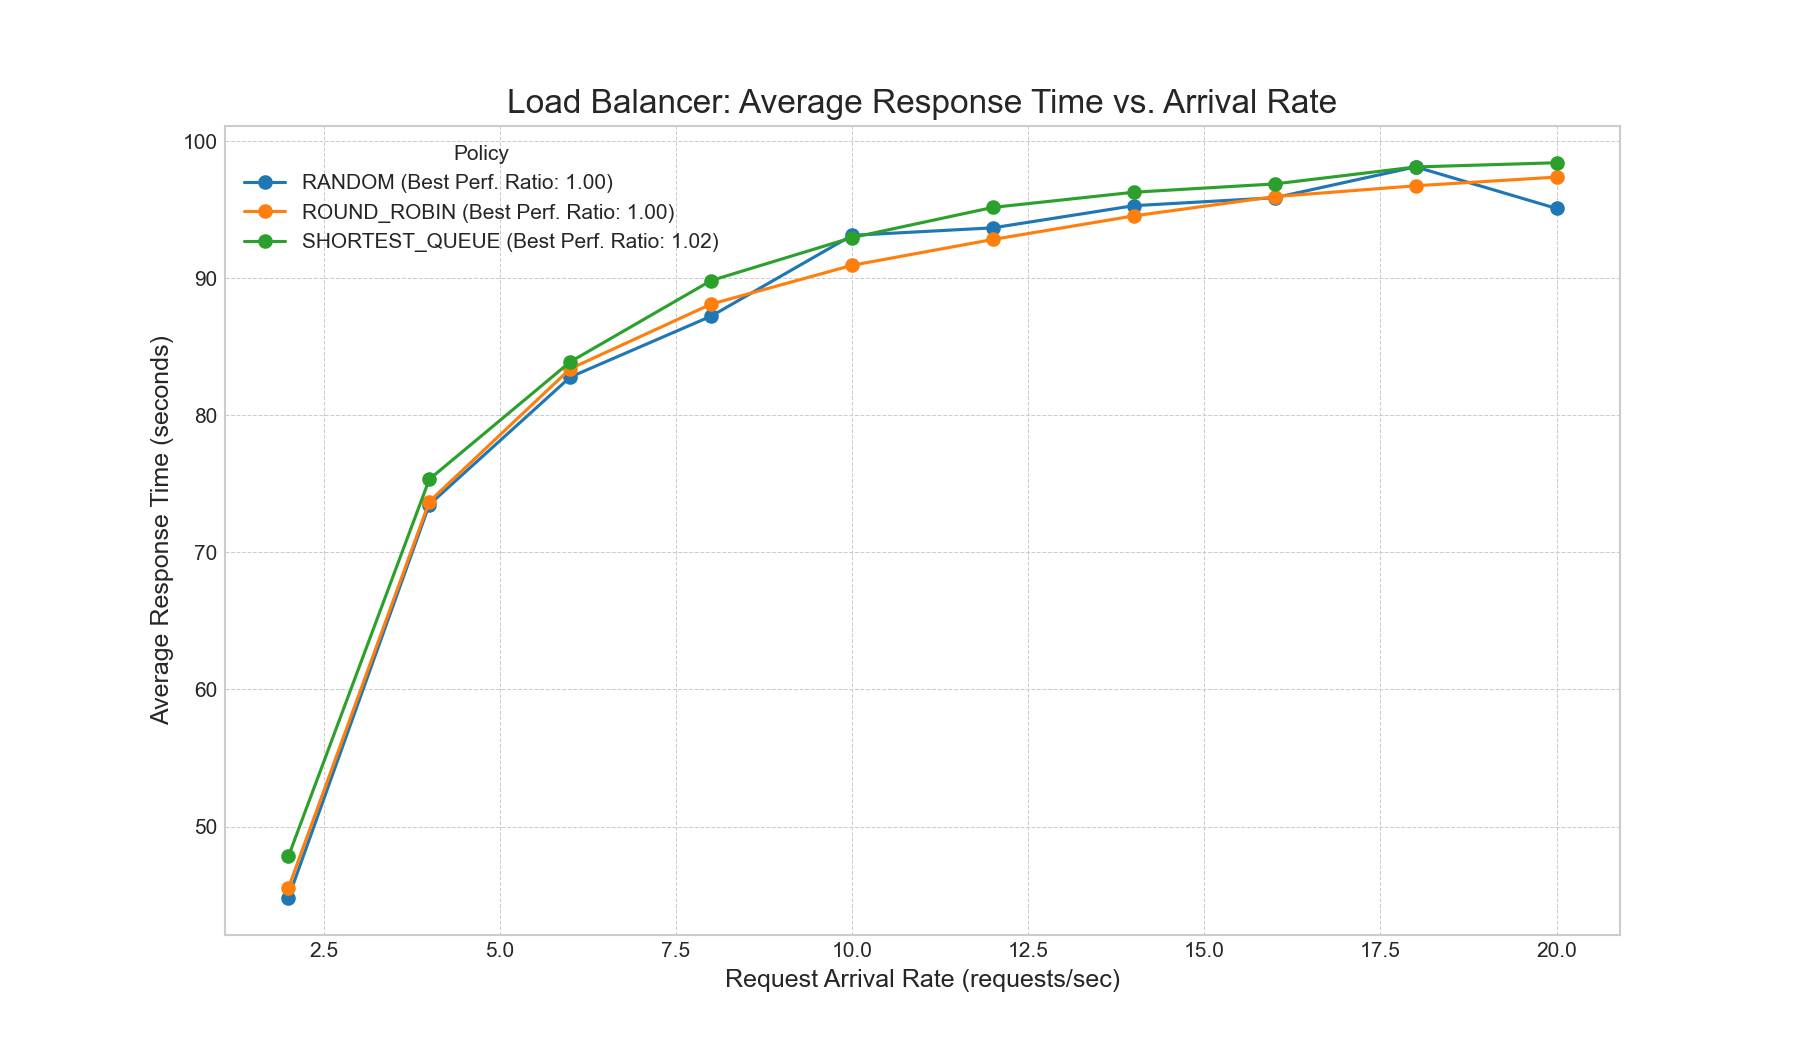
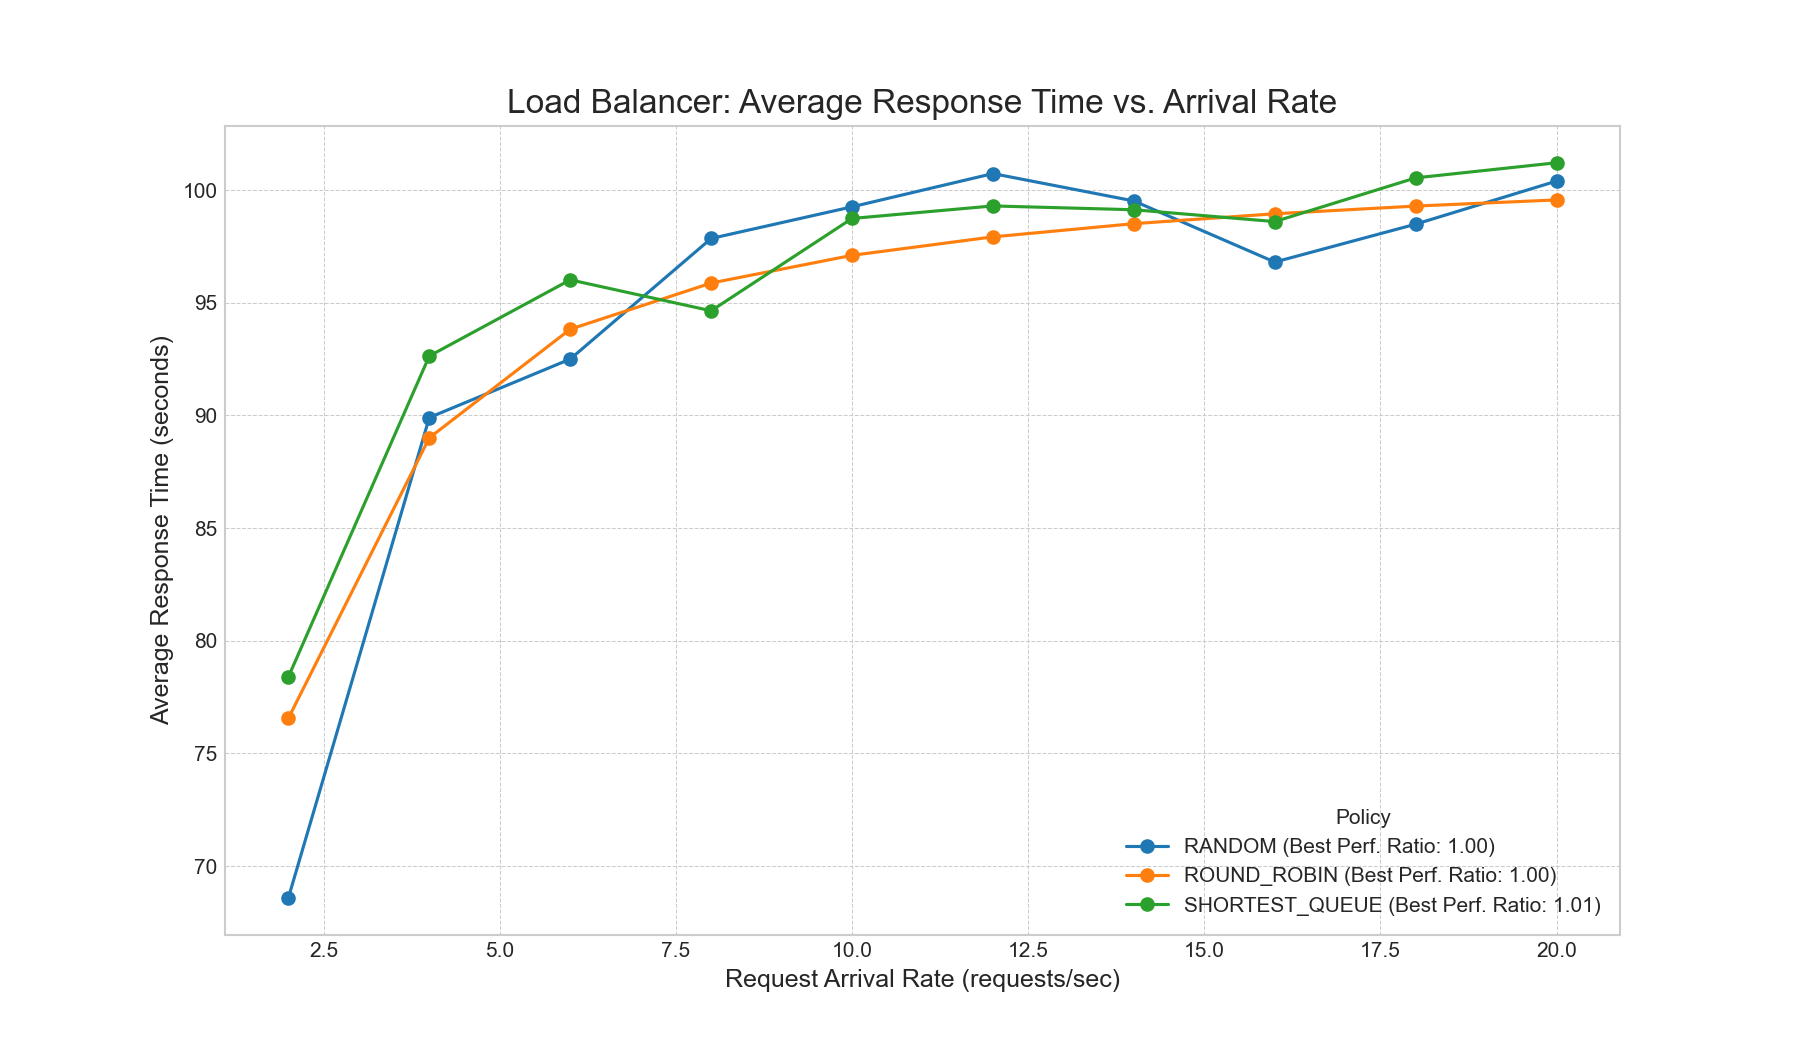
fix para os plots

diff --git a/load_balancer_simulation.py b/load_balancer_simulation.py
@@ -11,7 +11,7 @@ SIMULATE_BURST_PHASE = True
 
 PROCESSING_TIMES = {
     'CPU_INTENSIVE': (1, 15),
-    'IO_BOUND': (1, 15)
+    'IO_BOUND': (15, 30)
 }
 
 class Colors:
